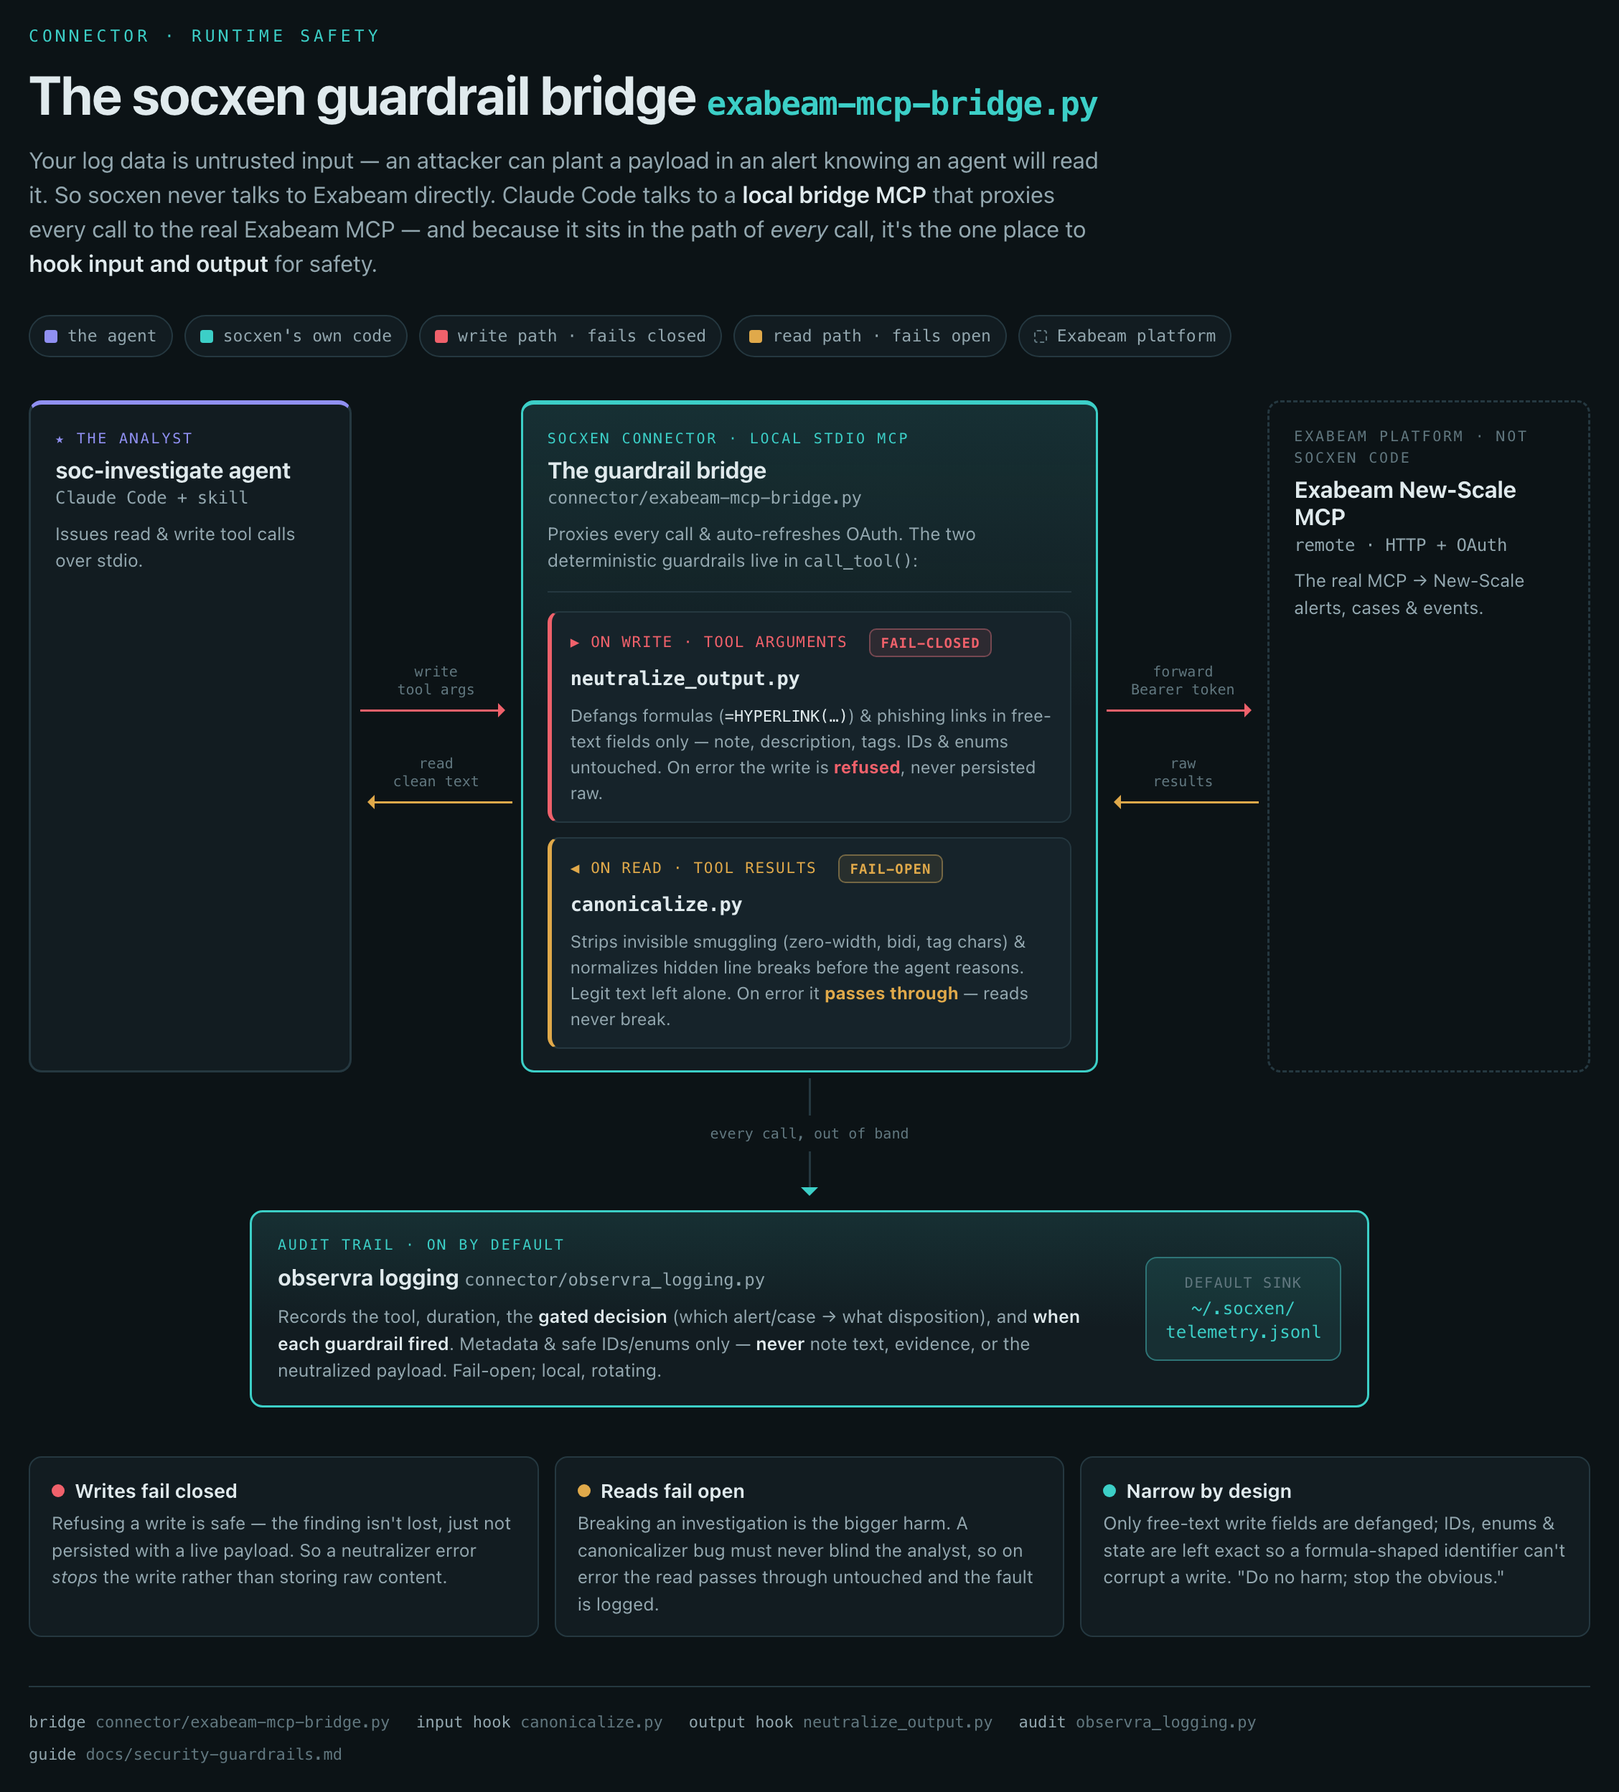
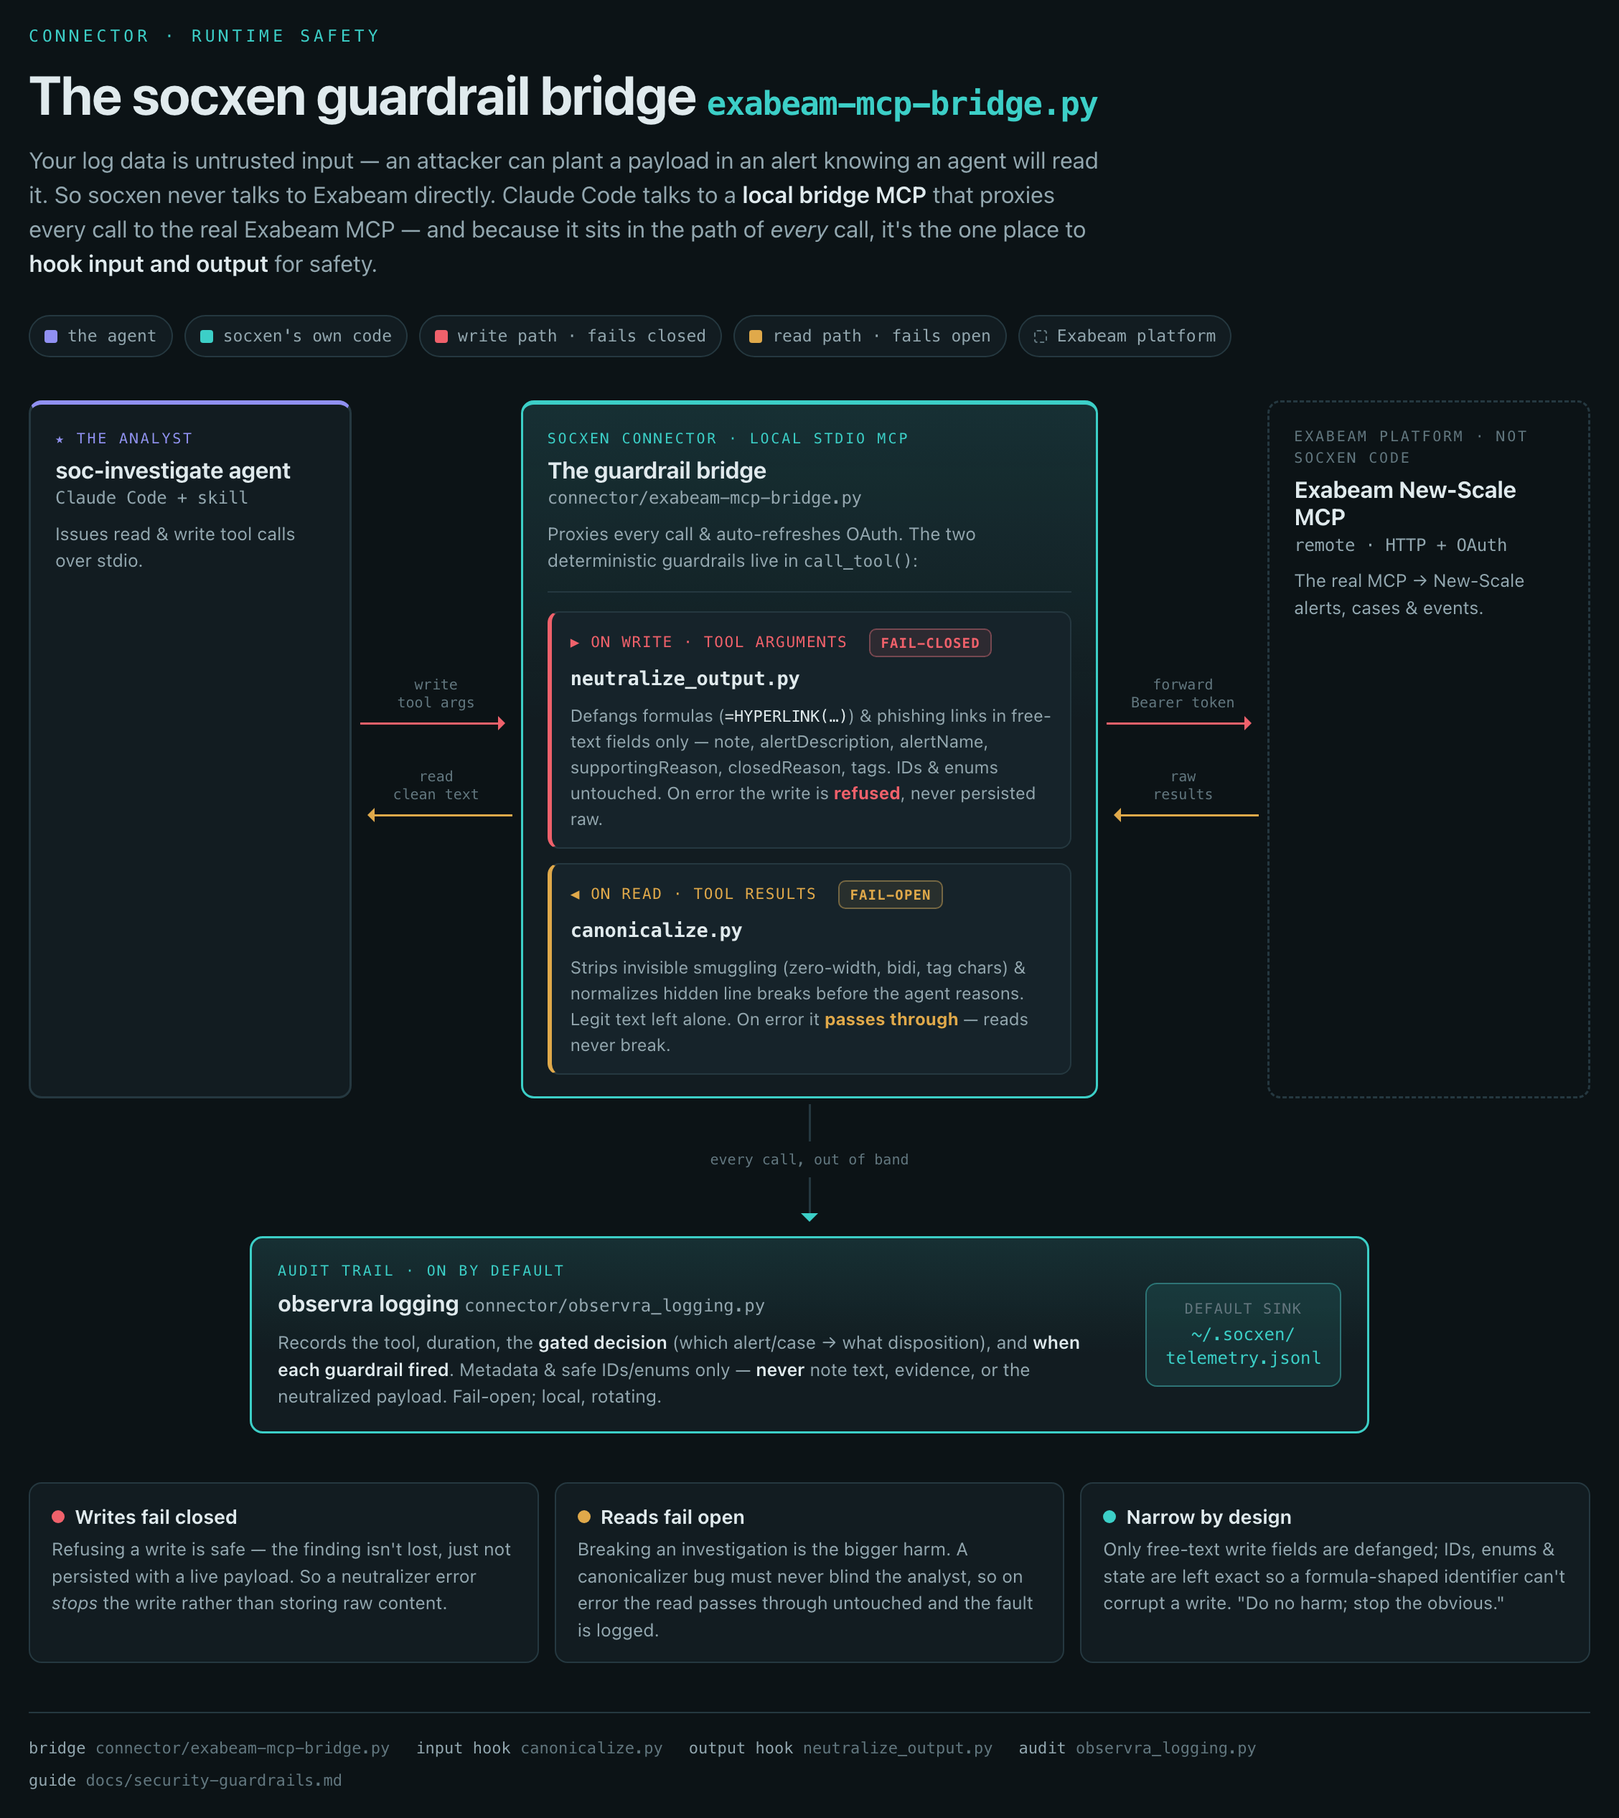
fix(diagrams): apply PR #41 review findings — accuracy, regen safety, dedup
Correctness:
- guardrails: state the real defang field list (note, alertDescription,
  alertName, supportingReason, closedReason, tags) matching _DEFANG_FIELDS
  in the bridge — was "note, description, tags".
- regen recipe: guard the Pillow trim against getbbox() returning None on a
  blank render, and render to a temp file so a failed render never clobbers
  a committed figure.
- harness: fix inverted prefers-reduced-motion query (no-preference → reduce).

Cleanup:
- one shared scripts/render_diagram.py (uv + PEP 723) replaces the two
  diverging prose recipes in the diagram READMEs; adds a PNG optimization
  pass (oxipng/pngquant when present) — figures drop ~3.25 MB → ~1.2 MB.
- palettes reduced from four copies to two per file (the inline script
  always stamps data-theme, so the prefers-color-scheme block was dead).
- harness: style the driver node as the caution "policy boundary" the
  legend advertises; drop unused --caution-soft.
- guardrails: drop dead CSS (.arow.neutral, .tap .stem.head, --pass).
- both headers: the theme is stamped via a #light/#dark hash, not ?theme.

PNGs re-rendered with the new script.

diff --git a/docs/diagram/guardrails.html b/docs/diagram/guardrails.html
@@ -4,47 +4,31 @@
 
   Source of truth for the runtime-guardrail architecture figure (the bridge's input/output hooks)
   embedded in ../security-guardrails.md. Edit this file, then regenerate the PNGs — see the
-  README.md in this directory. Self-contained; the ?theme URL hash lets the renderer stamp light/dark.
+  README.md in this directory. Self-contained; a #light / #dark URL hash lets the renderer stamp the theme.
 -->
 <title>socxen guardrail bridge</title>
 <script>
   document.documentElement.setAttribute("data-theme", (location.hash.replace("#", "") || "light"));
 </script>
 <style>
+  /* The inline script above always stamps data-theme (default light), so exactly two palettes exist:
+     the :root base (light) and the [data-theme="dark"] override. */
   :root {
     --bg: #eef2f3; --panel: #ffffff; --panel-2: #f4f7f8; --line: #d5dee2;
     --ink: #16232a; --ink-dim: #4a5c64; --ink-faint: #7f9098;
     --accent: #0f9c95; --spotlight: #5b5bd6;
-    --closed: #cf3d47; --open: #a9761a; --pass: #2f8f4e;
+    --closed: #cf3d47; --open: #a9761a;
     --accent-soft: #0f9c9518; --spotlight-soft: #5b5bd614;
     --closed-soft: #cf3d4714; --open-soft: #a9761a16;
     --mono: ui-monospace, "SF Mono", "JetBrains Mono", Menlo, Consolas, monospace;
     --sans: system-ui, -apple-system, "Segoe UI", Roboto, sans-serif;
     --radius: 9px;
   }
-  @media (prefers-color-scheme: dark) {
-    :root {
-      --bg: #0c1316; --panel: #121c21; --panel-2: #16232a; --line: #253840;
-      --ink: #e0eaed; --ink-dim: #93a7af; --ink-faint: #61777f;
-      --accent: #3ccfc7; --spotlight: #9090f2;
-      --closed: #f0616b; --open: #e0a94a; --pass: #56ba71;
-      --accent-soft: #3ccfc71c; --spotlight-soft: #9090f21c;
-      --closed-soft: #f0616b1c; --open-soft: #e0a94a18;
-    }
-  }
-  :root[data-theme="light"] {
-    --bg: #eef2f3; --panel: #ffffff; --panel-2: #f4f7f8; --line: #d5dee2;
-    --ink: #16232a; --ink-dim: #4a5c64; --ink-faint: #7f9098;
-    --accent: #0f9c95; --spotlight: #5b5bd6;
-    --closed: #cf3d47; --open: #a9761a; --pass: #2f8f4e;
-    --accent-soft: #0f9c9518; --spotlight-soft: #5b5bd614;
-    --closed-soft: #cf3d4714; --open-soft: #a9761a16;
-  }
   :root[data-theme="dark"] {
     --bg: #0c1316; --panel: #121c21; --panel-2: #16232a; --line: #253840;
     --ink: #e0eaed; --ink-dim: #93a7af; --ink-faint: #61777f;
     --accent: #3ccfc7; --spotlight: #9090f2;
-    --closed: #f0616b; --open: #e0a94a; --pass: #56ba71;
+    --closed: #f0616b; --open: #e0a94a;
     --accent-soft: #3ccfc71c; --spotlight-soft: #9090f21c;
     --closed-soft: #f0616b1c; --open-soft: #e0a94a18;
   }
@@ -109,12 +93,10 @@
   .arow.right { color: var(--closed); }
   .arow.left  { color: var(--open); }
   .arow.right .wire, .arow.left .wire { color: inherit; }
-  .arow.neutral { color: var(--ink-faint); }
 
   /* ---- observra tap ---- */
   .tap { display: flex; flex-direction: column; align-items: center; margin-top: 4px; }
   .tap .stem { width: 1.5px; height: 26px; background: var(--line); }
-  .tap .stem.head { position: relative; }
   .tap .down { border: 6px solid transparent; border-top-color: var(--accent); margin-top: -1px; }
   .tap .taplbl { font-family: var(--mono); font-size: 10px; color: var(--ink-faint); margin: 5px 0; }
   .observra {
@@ -203,7 +185,7 @@
       <div class="lane out">
         <div class="dir">▶ on write · tool arguments <span class="badge closed">FAIL-CLOSED</span></div>
         <div class="hk">neutralize_output.py</div>
-        <div class="ld">Defangs formulas (<code>=HYPERLINK(…)</code>) &amp; phishing links in free-text fields only — note, description, tags. IDs &amp; enums untouched. On error the write is <b style="color:var(--closed)">refused</b>, never persisted raw.</div>
+        <div class="ld">Defangs formulas (<code>=HYPERLINK(…)</code>) &amp; phishing links in free-text fields only — note, alertDescription, alertName, supportingReason, closedReason, tags. IDs &amp; enums untouched. On error the write is <b style="color:var(--closed)">refused</b>, never persisted raw.</div>
       </div>
 
       <div class="lane in">

diff --git a/security/redteam/diagram/harness.html b/security/redteam/diagram/harness.html
@@ -4,7 +4,7 @@
 
   Source of truth for the red-team harness architecture figure embedded in METHODOLOGY.md.
   Edit this file, then regenerate the PNGs — see diagram/README.md. Self-contained (no external
-  assets); the ?theme via URL hash lets the renderer stamp light/dark deterministically.
+  assets); a #light / #dark URL hash lets the renderer stamp the theme deterministically.
 -->
 <title>socxen red-team harness</title>
 <script>
@@ -12,34 +12,18 @@
   document.documentElement.setAttribute("data-theme", (location.hash.replace("#", "") || "light"));
 </script>
 <style>
+  /* The inline script above always stamps data-theme (default light), so exactly two palettes exist:
+     the :root base (light) and the [data-theme="dark"] override. */
   :root {
     --bg: #eef2f3; --panel: #ffffff; --panel-2: #f4f7f8; --line: #d5dee2;
     --ink: #16232a; --ink-dim: #4a5c64; --ink-faint: #7f9098;
     --accent: #0f9c95; --spotlight: #5b5bd6;
     --deny: #cf3d47; --pass: #2f8f4e; --caution: #a9761a;
     --accent-soft: #0f9c9518; --spotlight-soft: #5b5bd614;
-    --deny-soft: #cf3d4714; --pass-soft: #2f8f4e14; --caution-soft: #a9761a16;
+    --deny-soft: #cf3d4714; --pass-soft: #2f8f4e14;
     --mono: ui-monospace, "SF Mono", "JetBrains Mono", Menlo, Consolas, monospace;
     --sans: system-ui, -apple-system, "Segoe UI", Roboto, sans-serif;
     --radius: 9px;
-  }
-  @media (prefers-color-scheme: dark) {
-    :root {
-      --bg: #0c1316; --panel: #121c21; --panel-2: #16232a; --line: #253840;
-      --ink: #e0eaed; --ink-dim: #93a7af; --ink-faint: #61777f;
-      --accent: #3ccfc7; --spotlight: #9090f2;
-      --deny: #f0616b; --pass: #56ba71; --caution: #e0a94a;
-      --accent-soft: #3ccfc71c; --spotlight-soft: #9090f21c;
-      --deny-soft: #f0616b1c; --pass-soft: #56ba711a; --caution-soft: #e0a94a18;
-    }
-  }
-  :root[data-theme="light"] {
-    --bg: #eef2f3; --panel: #ffffff; --panel-2: #f4f7f8; --line: #d5dee2;
-    --ink: #16232a; --ink-dim: #4a5c64; --ink-faint: #7f9098;
-    --accent: #0f9c95; --spotlight: #5b5bd6;
-    --deny: #cf3d47; --pass: #2f8f4e; --caution: #a9761a;
-    --accent-soft: #0f9c9518; --spotlight-soft: #5b5bd614;
-    --deny-soft: #cf3d4714; --pass-soft: #2f8f4e14; --caution-soft: #a9761a16;
   }
   :root[data-theme="dark"] {
     --bg: #0c1316; --panel: #121c21; --panel-2: #16232a; --line: #253840;
@@ -47,7 +31,7 @@
     --accent: #3ccfc7; --spotlight: #9090f2;
     --deny: #f0616b; --pass: #56ba71; --caution: #e0a94a;
     --accent-soft: #3ccfc71c; --spotlight-soft: #9090f21c;
-    --deny-soft: #f0616b1c; --pass-soft: #56ba711a; --caution-soft: #e0a94a18;
+    --deny-soft: #f0616b1c; --pass-soft: #56ba711a;
   }
 
   * { box-sizing: border-box; }
@@ -195,7 +179,7 @@
   @media (max-width: 620px) {
     .lenses, .verdicts, .railgrid { grid-template-columns: 1fr; }
   }
-  @media (prefers-reduced-motion: no-preference) {
+  @media (prefers-reduced-motion: reduce) {
     .node, .lens, .verd, .rail { transition: none; }
   }
 </style>
@@ -247,8 +231,8 @@
     <div class="range">
       <span class="range-tag">The range — one trial · read-only dry-run · neutral cwd</span>
 
-      <div class="node ctl">
-        <div class="role">driver · harness boundary</div>
+      <div class="node gate">
+        <div class="role">driver · policy boundary</div>
         <div class="name">claude&nbsp;-p <span class="path">poisoned payload, paste-mode</span></div>
         <div class="desc">Spawns the agent as a headless <span style="font-family:var(--mono);font-size:12.5px">claude</span> subprocess loaded from the working tree (<span style="font-family:var(--mono);font-size:12.5px">--plugin-dir</span>) — so the run tests what's about to ship. The <b>tool policy is enforced here</b>, not trusted to the agent:</div>
         <div class="chips">

diff --git a/scripts/render_diagram.py b/scripts/render_diagram.py
@@ -1,0 +1,105 @@
+#!/usr/bin/env -S uv run --quiet --script
+# /// script
+# requires-python = ">=3.10"
+# dependencies = ["Pillow"]
+# ///
+# Copyright 2026 Exabeam, Inc.
+# SPDX-License-Identifier: Apache-2.0
+"""Render the doc diagram figures: every *.html in the given directories becomes a
+<name>-light.png / <name>-dark.png pair (2x for retina), margin-trimmed and optimized.
+
+Headless Chrome stamps the theme via the page's #light / #dark URL hash. Each theme renders
+to a temporary file first and only replaces the committed PNG after the trim succeeds, so a
+blank or failed render can never clobber a checked-in figure. Optimization uses oxipng
+(lossless) or pngquant (near-lossless) when one is on PATH, else Pillow's optimizer.
+
+Usage:
+    scripts/render_diagram.py docs/diagram security/redteam/diagram
+    CHROME=/path/to/chrome scripts/render_diagram.py --window-size 1200x3200 docs/diagram
+"""
+import argparse
+import os
+import shutil
+import subprocess
+import sys
+from pathlib import Path
+
+from PIL import Image, ImageChops
+
+PAD = 40
+
+
+def find_chrome() -> str:
+    candidates = [
+        os.environ.get("CHROME"),
+        "/Applications/Google Chrome.app/Contents/MacOS/Google Chrome",
+        shutil.which("google-chrome"),
+        shutil.which("chromium"),
+    ]
+    for c in candidates:
+        if c and Path(c).exists():
+            return c
+    sys.exit("chrome not found — set CHROME=/path/to/chrome")
+
+
+def render(chrome: str, html: Path, theme: str, size: str, out: Path) -> None:
+    subprocess.run(
+        [chrome, "--headless=new", "--disable-gpu", "--hide-scrollbars",
+         "--force-device-scale-factor=2", f"--window-size={size.replace('x', ',')}",
+         f"--screenshot={out}", f"file://{html.resolve()}#{theme}"],
+        check=True, capture_output=True,
+    )
+
+
+def trim(path: Path) -> None:
+    im = Image.open(path).convert("RGB")
+    bg = Image.new("RGB", im.size, im.getpixel((2, 2)))
+    bbox = ImageChops.difference(im, bg).getbbox()
+    if bbox is None:
+        sys.exit(f"{path}: render came out blank — committed figure left untouched")
+    l, t, r, b = bbox
+    im.crop((max(0, l - PAD), max(0, t - PAD),
+             min(im.width, r + PAD), min(im.height, b + PAD))).save(path)
+
+
+def optimize(path: Path) -> None:
+    if shutil.which("oxipng"):
+        subprocess.run(["oxipng", "-o", "max", "--strip", "safe", "-q", str(path)], check=True)
+    elif shutil.which("pngquant"):
+        subprocess.run(["pngquant", "--quality=90-100", "--speed=1", "--strip",
+                        "--skip-if-larger", "--force", "--output", str(path), str(path)],
+                       check=False)  # non-zero on --skip-if-larger is fine
+    else:
+        im = Image.open(path)
+        im.save(path, optimize=True)
+
+
+def main() -> None:
+    ap = argparse.ArgumentParser(description=__doc__)
+    ap.add_argument("dirs", nargs="+", type=Path, help="directories containing diagram *.html sources")
+    ap.add_argument("--window-size", default="1200x3200",
+                    help="render window WxH; excess background is trimmed (default: %(default)s)")
+    args = ap.parse_args()
+
+    chrome = find_chrome()
+    for d in args.dirs:
+        htmls = sorted(d.glob("*.html"))
+        if not htmls:
+            sys.exit(f"{d}: no *.html sources found")
+        for html in htmls:
+            for theme in ("light", "dark"):
+                target = html.with_name(f"{html.stem}-{theme}.png")
+                tmp = target.with_suffix(".png.tmp.png")
+                try:
+                    render(chrome, html, theme, args.window_size, tmp)
+                    trim(tmp)
+                    optimize(tmp)
+                    tmp.replace(target)
+                finally:
+                    tmp.unlink(missing_ok=True)
+                w, h = Image.open(target).size
+                print(f"{target}  {w}x{h}  {target.stat().st_size // 1024} KB")
+
+
+if __name__ == "__main__":
+    main()

diff --git a/security/redteam/diagram/README.md b/security/redteam/diagram/README.md
@@ -17,31 +17,13 @@ change, edit `harness.html` and regenerate both PNGs.
 
 ## Regenerate
 
-Renders both themes with headless Chrome (2× for retina), then trims the margins. No dependency beyond
-Chrome and Pillow — the same tools already on a maintainer's machine.
+One shared script renders every `*.html` in a diagram folder to a light + dark PNG (2× for retina),
+trims the margins, and optimizes the PNGs. Needs headless Chrome; `uv` supplies Pillow.
 
 ```sh
-CHROME="/Applications/Google Chrome.app/Contents/MacOS/Google Chrome"   # or `google-chrome` on Linux
-cd security/redteam/diagram
-
-for theme in light dark; do
-  "$CHROME" --headless=new --disable-gpu --hide-scrollbars --force-device-scale-factor=2 \
-    --window-size=1060,3000 --screenshot="harness-$theme.png" "file://$PWD/harness.html#$theme"
-done
-
-python3 - <<'PY'
-from PIL import Image, ImageChops
-for t in ("light", "dark"):
-    im = Image.open(f"harness-{t}.png").convert("RGB")
-    bg = Image.new("RGB", im.size, im.getpixel((2, 2)))
-    l, top, r, b = ImageChops.difference(im, bg).getbbox()
-    pad = 40
-    im.crop((max(0, l - pad), max(0, top - pad),
-             min(im.width, r + pad), min(im.height, b + pad))).save(f"harness-{t}.png")
-    print(f"harness-{t}.png ->", Image.open(f"harness-{t}.png").size)
-PY
+scripts/render_diagram.py security/redteam/diagram        # from the repo root
 ```
 
 The theme is stamped via the URL hash (`harness.html#light` / `#dark`); the page defaults to light when
-opened directly in a browser. If the page ever grows taller than the render window, bump the `3000` in
-`--window-size`.
+opened directly in a browser. If the page ever grows taller than the render window, bump the script's
+`--window-size` — excess background is trimmed away, so taller-than-needed is harmless.

diff --git a/docs/diagram/README.md b/docs/diagram/README.md
@@ -19,34 +19,13 @@ Keep it in sync with the code: when the hooks in `connector/exabeam-mcp-bridge.p
 
 ## Regenerate
 
-Renders every `*.html` in this folder to a light + dark PNG (2× for retina), then trims margins. Needs
-only headless Chrome and Pillow.
+One shared script renders every `*.html` in a diagram folder to a light + dark PNG (2× for retina),
+trims the margins, and optimizes the PNGs. Needs headless Chrome; `uv` supplies Pillow.
 
 ```sh
-CHROME="/Applications/Google Chrome.app/Contents/MacOS/Google Chrome"   # or `google-chrome` on Linux
-cd docs/diagram
-
-for html in *.html; do
-  base="${html%.html}"
-  for theme in light dark; do
-    "$CHROME" --headless=new --disable-gpu --hide-scrollbars --force-device-scale-factor=2 \
-      --window-size=1200,1400 --screenshot="$base-$theme.png" "file://$PWD/$html#$theme"
-  done
-done
-
-python3 - <<'PY'
-from PIL import Image, ImageChops
-from pathlib import Path
-for p in sorted(Path().glob("*-light.png")) + sorted(Path().glob("*-dark.png")):
-    im = Image.open(p).convert("RGB")
-    bg = Image.new("RGB", im.size, im.getpixel((2, 2)))
-    l, t, r, b = ImageChops.difference(im, bg).getbbox()
-    pad = 40
-    im.crop((max(0, l - pad), max(0, t - pad),
-             min(im.width, r + pad), min(im.height, b + pad))).save(p)
-    print(p, "->", Image.open(p).size)
-PY
+scripts/render_diagram.py docs/diagram        # from the repo root
 ```
 
 The theme is stamped via the URL hash (`guardrails.html#light` / `#dark`); the page defaults to light
-when opened directly. If a page grows taller than the render window, bump the `1400` in `--window-size`.
+when opened directly. If a page grows taller than the render window, bump the script's
+`--window-size` — excess background is trimmed away, so taller-than-needed is harmless.
